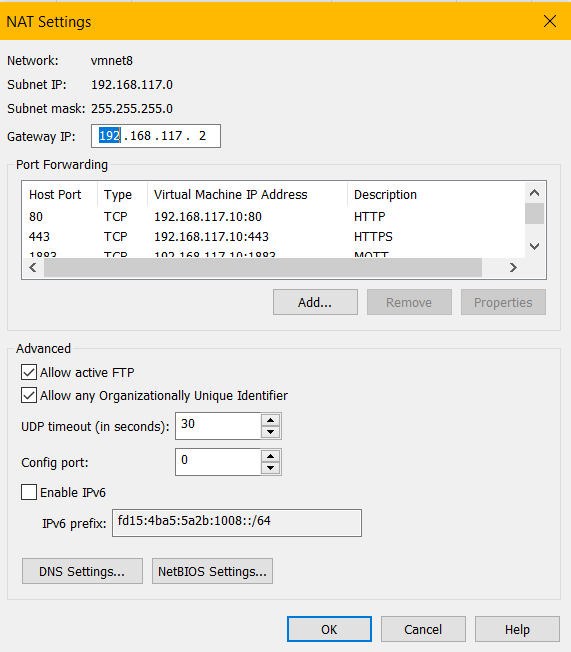
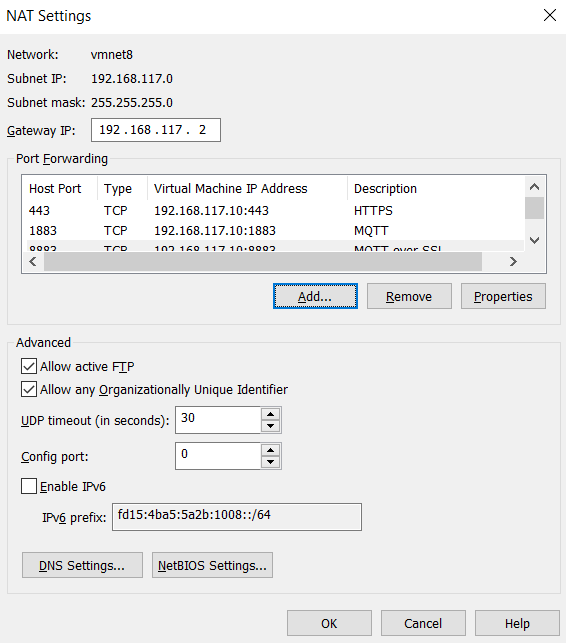
Incorporated comments from Pavan.

diff --git a/content/edge/installation-bundle/prerequisites.md b/content/edge/installation-bundle/prerequisites.md
@@ -9,9 +9,9 @@ layout: redirect
 |Item|Details|
 |:---|:---|
 |**Hypervisor**|- VMWare ESXi 6.5 and 6.7 <br> - VMware Workstation Player 16.x <br>- Hyper-V on Microsoft Windows 10 Enterprise, version 1809. The supported VM configuration version is 9.0.
-|**Edge appliance image**|To be downloaded from the [Software AG Empower portal](https://empower.softwareag.com), based on the target hypervisor. <br> For VMware (ESXi and Workstation Player), download all the 4 files of VMware (ovf, mf and two disks vmdk files). <br> For Hyper-V, download the ZIP file.|
+|**Edge appliance image**|To be downloaded from the [Software AG Empower](https://empower.softwareag.com) portal, based on the target hypervisor. <br><br> For VMware (ESXi and Workstation Player), download all the 4 files:<br>- CumulocityIoTEdge-Appliance-*version*-VMware-disk1.vmdk<br>- CumulocityIoTEdge-Appliance-*version*-VMware-disk2.vmdk<br>- CumulocityIoTEdge-Appliance-*version*-VMware.mf<br>- CumulocityIoTEdge-Appliance-*version*-VMware.ovf<br><br> For Hyper-V, download the ZIP file:<br>- CumulocityIoTEdge-Appliance-*version*-HyperV.zip <br><br>The fixes for Cumulocity IoT Edge:<br>- CumulocityIoTEdge-*version*.tar.gz |
 |**Cumulocity IoT Edge license file**|To request the license file for Cumulocity IoT Edge, please contact the logistics team for your region:<br> - North and South America: LogisSrvus@softwareagusa.com <br>- All Other Regions: LogisticsServiceCenterGER@softwareag.com <br>In the email, you must include <br> - your company name, under which the license has been bought <br> - the domain name (for example, myedge.domain.com), where Cumulocity IoT Edge will be reachable<br>For more information, see [Domain name validation for Edge license key generation](#domain-name-validation-for-edge-license-key-generation).|
-|**SSL key and SSL certificate**|Use your internal or an external CA (Certification Authority) to generate these files. These files must not be password-protected. <br>**Info:** Ensure that the .crt and .key files are in PEM format and the .key file is not encrypted.|
+|**SSL key and SSL certificate**|Optional. Use your internal or an external CA (Certification Authority) to generate these files. These files must not be password-protected. <br>**Info:** Ensure that the .crt and .key files are in PEM format and the .key file is not encrypted.|
 |**DNS entry**|The DNS (Domain Name System) is used to resolve human readable host names like www.cumulocity.com to machine readable IP addresses like 192.198.1.10. <br> If you want to connect to Edge appliance within your LAN, the DNS entry has to be added for the domain name (URL under which Cumulocity IoT Edge can be reached) with the IP address of the host.|
 |**Edge cloud remote access**|To connect and manage one (or multiple) Edge appliances to your Cumulocity IoT cloud tenant, you need an active Cumulocity IoT Standard tenant with the Data Broker and Cloud Remote Access extensions.<br>**Info:** The Edge cloud remote access is an optional feature in Cumulocity IoT Edge.|
 
@@ -89,10 +89,10 @@ The virtual machine has the following minimum hardware requirements:
 
 |Hardware|Configuration|
 |:---|:---|
-|Disk space|115 GB
+|Disk space|100 GB
 |CPU|Intel x86
-|Number of CPU cores|2 - without microservice <br>4 - with microservice<br>4 - to update Docker CIDR
-|RAM|6 GB - without microservice <br>8 GB - with microservice<br>8 GB - to update Docker CIDR
+|Number of CPU cores|2 - without microservice <br>4 - with microservice
+|RAM|6 GB - without microservice <br>8 GB - with microservice
 |Network Interface Controller (NIC)|1
 
 These are the minimum system requirements to enable the microservice hosting feature. If the microservice requires additional system resources, you must configure the system requirements accordingly in addition to minimum system requirements. For example, if the microservice requires 2 CPU cores and 4 GB of RAM, then the VM must have 6 CPU cores (4 cores for VM + 2 cores for microservice) and 12 GB of RAM (8 GB for VM + 4 GB for microservice).

diff --git a/content/edge/configuration-bundle/connecting-opcus-device.md b/content/edge/configuration-bundle/connecting-opcus-device.md
@@ -1,0 +1,51 @@
+---
+weight: 65
+title: Connecting an OPCUA device
+layout: redirect
+---
+
+>**Important:** While configuring the OPC UA server, ensure that the server is reachable from the Edge appliance. If you are using a hostname, configure the DNS accordingly.
+
+To connect an OPC UA device in the Edge appliance, follow the steps below.
+
+#### Preparation
+
+**OPC UA Management service**
+
+Check if the OPC UA management service is running in Cumulocity IoT Edge (running on port 8083):  
+
+```shell
+[admin@iot-edge-server ~]$ sudo service opcua-mgmt-service status
+```
+
+If the agent is not running, start it with the following command:
+
+```shell
+[admin@iot-edge-server ~]$ sudo service opcua-mgmt-service start
+```
+
+**OPC UA Device Gateway**
+
+Check if the OPC UA device gateway is running in Cumulocity IoT Edge (running on port 1099):  
+
+```shell
+[admin@iot-edge-server ~]$ sudo service opcua-device-gateway status
+```
+
+If the agent is not running, start it with the following command:
+
+```shell
+[admin@iot-edge-server ~]$ sudo service opcua-device-gateway start
+```
+
+#### Registering the device
+
+Next, you must register a device in the Device Management application with the name opcua-gateway.
+
+<img src="/images/edge/edge-device-registration-example.png" name="Register device"/>
+
+Follow the description in [Device Management > Connecting devices](/users-guide/device-management#connecting-devices) in the User guide to register a device.
+
+In the Device Management application, click **All devices** in the navigator and find the OPCUA device in the device list.
+
+For further information about managing and configuring OPCUA devices, see [OPC UA](/protocol-integration/opcua/) in the Protocol integration guide.

diff --git a/content/edge/setting-up-edge-bundle/vmware-port-forwarding.md b/content/edge/setting-up-edge-bundle/vmware-port-forwarding.md
@@ -14,14 +14,13 @@ To perform port forwarding on a VMware platform, follow the steps below.
 2. Select the **NAT** adapter and click **NAT Settings**.
 <img src="/images/edge/edge-vmware-port-forwarding-02.png" name="NAT Settings"/>
 	
-3. Click **Add** to add the port forwarding rules. Enter the port forwarding rules for HTTP, HTTPS, MQTT and MQTT over SSL protocols as described in the table below:
+3. Click **Add** to add the port forwarding rules. Enter the port forwarding rules for HTTPS, MQTT and MQTT over SSL protocols as described in the table below:
 
 
 	>**Info:** Ensure that the **Virtual machine IP address** is the same as the IP address that you have configured for the Edge appliance.
 
 	|Host Port|Type|VM IP Address|VM Port|Description
 	|:---|:---|:---|:---|:---
-	|80|TCP|192.168.117.10|80|HTTP
 	|443|TCP|192.168.117.10|443|HTTPS
 	|1883|TCP|192.168.117.10|1883|MQTT
 	|8883|TCP|192.168.117.10|8883|MQTT over SSL

diff --git a/content/edge/configuration-bundle/configuring-email-server.md b/content/edge/configuration-bundle/configuring-email-server.md
@@ -1,5 +1,5 @@
 ---
-weight: 70
+weight: 75
 title: Configuring the email server
 layout: redirect
 ---
@@ -7,4 +7,4 @@ layout: redirect
 To configure the "reset password" template and email server settings, perform the following steps:
 
 1. Log into the management tenant using *https://&#60;tenant-domain>/apps/administration/index.html#/configuration*.
-2. Update the email server details and templates as mentioned in [Administration > Changing settings> Configuration settings](/users-guide/administration/#config-platform) in the User guide.
+2. Update the email server details and templates as mentioned in [Configuring password reset](/users-guide/enterprise-edition/#password-reset) and [Configuring email server](/users-guide/enterprise-edition/#email-server) in the User guide.

diff --git a/content/edge/installation-bundle/installing-edge-using-gui.md b/content/edge/installation-bundle/installing-edge-using-gui.md
@@ -48,3 +48,5 @@ To install Cumulocity IoT Edge using the GUI:
 The installation takes some time to complete. After the installation is complete, the "Cumulocity IoT Edge installation is now complete" message appears. If you still see the installation in progress, refresh the browser. 
 
 Next, click **Open Cumulocity IoT Edge**.
+
+>**Important:** In case you need to reset the password, you must configure the "reset password" template and email server settings to receive the password reset email. For more information, see [Configuring password reset](/users-guide/enterprise-edition/#password-reset) and [Configuring email server](/users-guide/enterprise-edition/#email-server) in the User guide.

diff --git a/content/edge/configuration-bundle/configuring-the-hostname.md b/content/edge/configuration-bundle/configuring-the-hostname.md
@@ -4,16 +4,7 @@ title: Configuring the hostname
 layout: redirect
 ---
 
-You can change the hostname of your Edge appliance using the terminal and REST APIs.
-
-### Configuring the hostname using the terminal
-
-To configure the hostname of your Edge appliance, run the command:
-
-```shell
-[admin@iot-edge-server ~]$ sudo hostnamectl set-hostname <hostname>
-```
-The default hostname of the Edge appliance is **iot-edge-server**.
+You can change the hostname of your Edge appliance using the REST APIs. The default hostname of the Edge appliance is **iot-edge-server**.
 
 ### Configuring the hostname using the REST APIs
 

diff --git a/content/edge/edge-introduction-bundle/edge-vs-core.md b/content/edge/edge-introduction-bundle/edge-vs-core.md
@@ -23,6 +23,7 @@ The following differences apply:
 |Cloud Field Bus|Included|Optional
 |Apama real-time analytics|Included|Optional
 |Data Broker|Included|Optional
+|OPC UA|Included|Optional
 
 **Footnote**: * The underlying infrastructure including the virtualization is not part of the product. For further details on high availability or fault tolerance options, refer to the relevant information provided by third parties (e.g.[vSphere Availability](https://docs.vmware.com/en/VMware-vSphere/6.5/com.vmware.vsphere.avail.doc/GUID-63F459B7-8884-4818-8872-C9753B2E0215.html)).
 

diff --git a/content/edge/configuration-bundle/configuring-the-network.md b/content/edge/configuration-bundle/configuring-the-network.md
@@ -12,6 +12,9 @@ After a successful installation, you can reconfigure the network and also config
 
 1. Log in to the Management tenant.
 
+	- Username: management/<*username*>
+	- Password: password provided during the installation
+
 2. Switch to the **Administration** application using the application switcher at the right of the top bar **<img class="Default" src="/images/icons/switcher-icon.png" alt="icon" style="display: inline; float: none">**.
 
 3. Click **Edge Configuration** > **Network** in the left navigation pane.

diff --git a/content/edge/installation-bundle/installing-edge-using-rest-api.md b/content/edge/installation-bundle/installing-edge-using-rest-api.md
@@ -4,6 +4,8 @@ title: Installing Cumulocity IoT Edge using the REST APIs
 layout: redirect
 ---
 
+Cumulocity IoT Edge supports REST APIs to perform the tasks like installation, configuration, updating the Edge appliance, and so on. For more information about working with REST APIs, see [REST APIs for Cumulocity IoT Edge](/edge/rest-api/).
+
 To install Cumulocity IoT Edge using the REST APIs, use the following endpoints:
 
 - [POST /edge/install](/edge/rest-api/#post-edgeinstall)

diff --git a/content/edge/configuration-bundle/monitoring_edge_metrics.md b/content/edge/configuration-bundle/monitoring_edge_metrics.md
@@ -1,5 +1,5 @@
 ---
-weight: 65
+weight: 70
 title: Monitoring the Edge metrics
 layout: redirect
 ---
